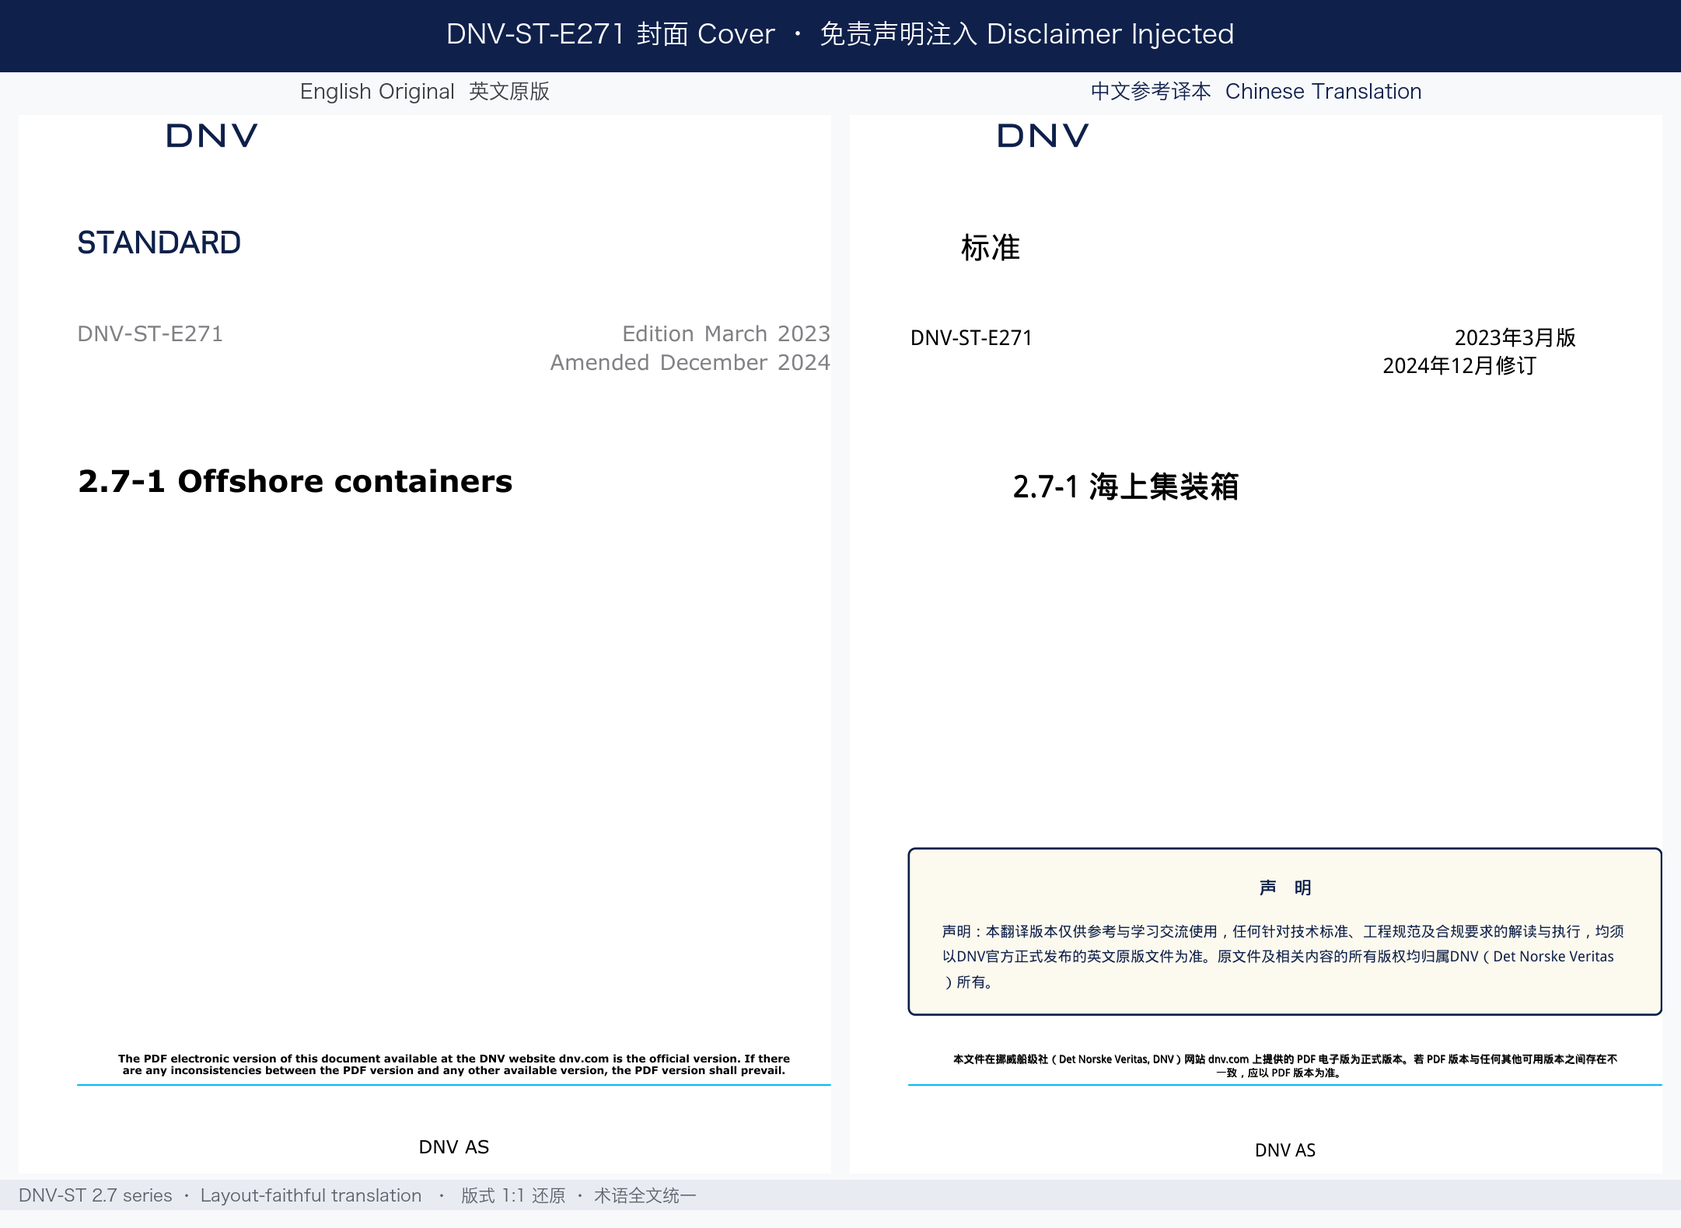
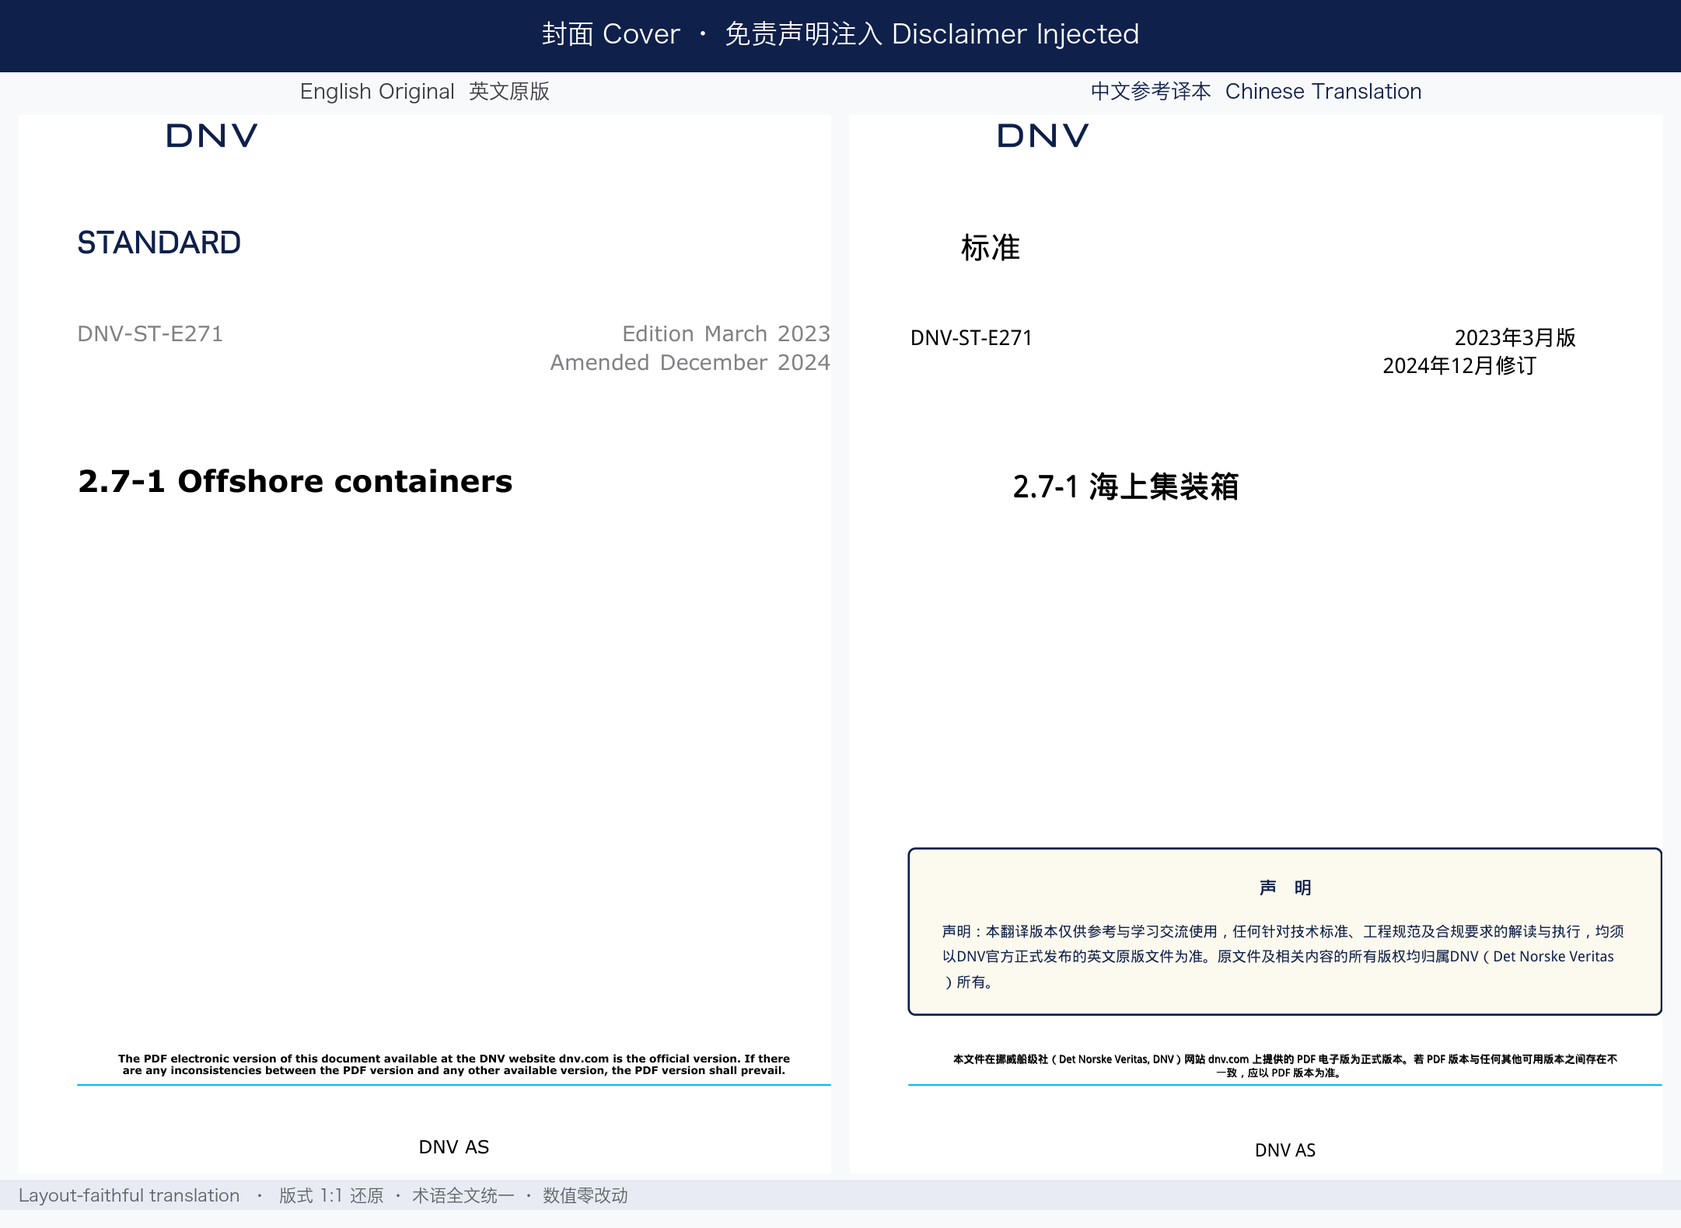
feat: cross-platform, agent-agnostic, de-branded
- Platform: Windows / macOS / Linux (pure Python + PyMuPDF, no OS-specific deps)
- Agents: works with any AI agent — portable SKILL.md (Agent Skills convention)
  or plain prompt + standalone CLI toolkit; visual acceptance via subagent or self-review
- De-branded: generic examples in canonical/chunk_safe data, neutral screenshot captions
- README rewritten (multi-agent install, Windows paths, toolkit quick start)

Changed region(s): [[0.2789, 0.0, 0.7128, 0.031], [0.031, 0.9614, 0.4029, 0.9924]]

diff --git a/scripts/canonical.py b/scripts/canonical.py
@@ -1,5 +1,11 @@
 # -*- coding: utf-8 -*-
-"""重复文本统一规范译文表 + 分块瘦身 + 构建时套用"""
+"""重复文本统一规范译文表 + 分块瘦身 + 构建时套用（通用机制）
+
+SIG2ZH 为"签名→规范译文"数据表：签名 = 将块内所有数字替换为 # 后的文本。
+换一个领域/项目时，按相同格式重写 SIG2ZH / IDENTITY（运行 scripts/canonical.py
+会先扫描重复组并报告未覆盖签名，照提示补表即可）。
+下方数据为工业标准类文档的示例片段，可整体替换。
+"""
 import json, re, os, glob
 from collections import defaultdict, Counter
 
@@ -9,64 +15,18 @@ DOCS = _sys.argv[2:] if len(_sys.argv) > 2 else ["DOC"]
 
 # 签名 -> 规范中文（⟦Ni⟧ 与原文数字串一一对应；纯数字/符号组自动保留原文）
 SIG2ZH = {
-    "#.# General": "⟦N0⟧.⟦N1⟧ 总则",
-    "#.# Materials": "⟦N0⟧.⟦N1⟧ 材料",
-    "#.#.# General": "⟦N0⟧.⟦N1⟧.⟦N2⟧ 总则",
-    "#.#-# Equipment assemblies": "⟦N0⟧.⟦N1⟧-⟦N2⟧ 设备组件",
-    "#.#-# Offshore containers": "⟦N0⟧.⟦N1⟧-⟦N2⟧ 海上集装箱",
-    "#.#-# Portable offshore units": "⟦N0⟧.⟦N1⟧-⟦N2⟧ 便携式海上单元",
-    "(A × CD)/MGWSub < #.#\nAnd\n(MGW + A#)/MGWSub < #.#\n#.# m":
-        "(A × CD)/MGWSub < ⟦N0⟧.⟦N1⟧\n且\n(MGW + A⟦N2⟧)/MGWSub < ⟦N3⟧.⟦N4⟧\n⟦N5⟧.⟦N6⟧ m",
-    "Alloy\nTemper": "合金\n状态",
-    "Changes - current": "变更 — 现行",
-    "Condition\nRequirement": "工况\n要求",
-    "Contents": "目录",
-    "Different/additional\ncriteria (compared\nwith DNV-ST-E#)": "与DNV-ST-E⟦N0⟧\n不同/附加\n的准则",
-    "Document code\nTitle": "文件编号\n标题",
-    "Enhancement factor": "增强系数",
-    "Four leg lifting set at\nTwo leg lifting set at": "四腿吊装组件（夹角）\n两腿吊装组件（夹角）",
-    "Function\nRequirements": "功能\n要求",
-    "General requirements": "一般要求",
-    "Guidance note #:": "指导性说明⟦N0⟧：",
-    "Guidance note:": "指导性说明：",
-    "Level #": "等级⟦N0⟧",
-    "Minimum required working load limit (WLLmin)": "最低要求额定工作载荷（WLLmin）",
-    "NORSOK Z-# clause": "NORSOK Z-⟦N0⟧ 条款",
-    "Note #:": "注⟦N0⟧：",
+    # —— 通用示例（按你的文档领域重写）——
+    "#.# General": "⟦N0⟧.⟦N1⟧ 总则",                       # 章节标题
+    "Document code\nTitle": "文件编号\n标题",                # 表头
+    "Term\nDefinition": "术语\n定义",                        # 表头
+    "Topic\nReference\nDescription": "主题\n参考条款\n说明",  # 修订表表头
     "Note:": "注：",
-    "OFFSHORE CONTAINER DATA PLATE": "海上集装箱数据标牌",
-    "R#-SE\nYes #)\nNo\nNo": "R⟦N0⟧-SE\n是 ⟦N1⟧)\n否\n否",
-    "Rating": "额定值",
-    "Sec.#,": "第⟦N0⟧节，",
-    "Shackle dimension:": "卸扣尺寸：",
-    "Single leg\nsling or\nforerunner": "单腿\n吊索或\n引索",
-    "Standard — DNV-ST-E#. Edition April #, amended May #\nPage #":
-        "标准 — DNV-ST-E⟦N0⟧。⟦N1⟧年4月版，⟦N2⟧年5月修订\n第⟦N3⟧页",
-    "Standard — DNV-ST-E#. Edition August #\nPage #":
-        "标准 — DNV-ST-E⟦N0⟧。⟦N1⟧年8月版\n第⟦N2⟧页",
-    "Standard — DNV-ST-E#. Edition March #, amended December #\nPage #":
-        "标准 — DNV-ST-E⟦N0⟧。⟦N1⟧年3月版，⟦N2⟧年12月修订\n第⟦N3⟧页",
-    "Term\nDefinition": "术语\n定义",
-    "Topic\nReference\nDescription": "主题\n参考条款\n说明",
-    "Visual": "目视",
-    "Welded": "焊接",
-    "Working load limits [tonnes]\nNominal\nsize of\nsling leg":
-        "额定工作载荷 [吨]\n吊索腿\n名义\n尺寸",
-    "Yes": "是",
-    "Yield strength": "屈服强度",
-    "inspection": "检测",
-    "max.": "最大",
-    "min.": "最小",
-    "where:": "式中：",
-    "zone #:": "⟦N0⟧ 区：",
-    "— From Table #-#, find WLLmin = #.# tonnes.\n— From Table #-#, find WLLs.":
-        "— 由表⟦N0⟧-⟦N1⟧查得 WLLmin = ⟦N2⟧.⟦N3⟧ 吨。\n— 由表⟦N4⟧-⟦N5⟧查得 WLLs。",
+    "Guidance note:": "指导性说明：",
+    # 运行本脚本会列出"未覆盖签名"，照提示逐条补全即可
 }
-IDENTITY = {  # 明确保留原文
-    "DNV AS", "(HAZ)", "(Rp#.#)", "EN ISO #", "HAR/H#", "HBR/H#", "TF/T#",
-    "[N/mm#]", "[kg]", "[tonnes]",
-    "# mm < D ≤ # mm\n#\n#\n#", "R#\nD ≥ # mm\nD ≥ # mm\nD ≥ # mm\nD ≥ # mm",
-    "[mm]\n#°\n#°\n#°\n#°\n#°\n#°\n#°\n#°\n#°\n#°",
+# 明确保留原文的签名（标准号/代号/单位/纯数值表）
+IDENTITY = {
+    "EN ISO #", "[kg]", "[mm]", "[tonnes]", "(HAZ)",
 }
 
 def norm_key(t):

diff --git a/scripts/chunk_safe.py b/scripts/chunk_safe.py
@@ -11,7 +11,7 @@ import sys as _sys
 DOCS = _sys.argv[1:-1] if len(_sys.argv) > 2 else ["DOC"]
 MAXCH = 14000      # 目标块大小
 HARDMAX = 21000    # 找不到安全边界时的硬上限
-KEEP_PREFIX = "This copy of the document"
+KEEP_PREFIX = os.environ.get("KEEP_PREFIX", "This copy of the document")  # 水印/内部标记前缀，按文档设置
 
 def norm_key(t):
     return re.sub(r"\d+", "", t.replace("\xa0", " "))[:60]
@@ -42,7 +42,7 @@ def body_blocks(page):
         t = b["text"]
         if t.strip().startswith(KEEP_PREFIX): continue
         if b["size"] <= 7.6: continue                      # 页眉页脚 7pt
-        if re.match(r"^(Standard\s+—|Page\s+\d+|DNV AS|\d+/\d+|Changes|Contents$)", t.strip()): continue
+        if re.match(r"^(Standard\s+—|Page\s+\d+|\d+/\d+|Changes|Contents$)", t.strip()): continue  # 页眉页脚模式按文档调整
         out.append(b)
     return out
 
@@ -97,9 +97,8 @@ def safe_boundaries(data, cont_pages):
     return safe
 
 # 受控缩写清单（术语库）：仅对这些跟踪"全文档首次出现"的分块位置
-KNOWN_ABBREVS = ["WLL","RSL","POU","CCU","CSC","SOLAS","IMO","ISO","NDT","NDE","MPI","UT","PT","VT",
-                 "ITP","WPS","WPQR","CoG","HVAC","ATEX","ESD","UPS","NORSOK","DNV","ASME","ASNT",
-                 "ASTM","IBC","FEA","FEM","GRP","SWL","OSV","MBL","DNVGL","EN","Ex","AOD","COP","MEWP"]
+KNOWN_ABBREVS = os.environ.get("KNOWN_ABBREVS", "WLL,ISO,NDT,ITP,WPS,HVAC").split(",")
+# ⚠ 按你的领域设置受控缩写清单（逗号分隔环境变量，或直接编辑此行）
 
 def scan_abbrevs(items):
     """items: [(chunk_idx, text)] -> {abbrev: chunk_idx首次}（仅受控清单）"""

diff --git a/scripts/engine_tw.py b/scripts/engine_tw.py
@@ -1,4 +1,4 @@
-"""DNV 标准中文版 PDF 版式还原引擎 v2（TextWriter 绘制层）
+"""专业文档 PDF 版式还原引擎 v2（TextWriter 绘制层）
 v2 关键变更：绘制统一走 TextWriter（与 Font.text_length 度量完全一致），
 修复 v1 中 insert_text 渲染宽度 ≈1.39× 预测值导致的系统性越界。
 """

diff --git a/README.md b/README.md
@@ -1,10 +1,10 @@
 # pro-doc-translator · 专业文档翻译师
 
-**Any-industry, any-format professional document translation skill for ZCode** — auto-builds domain glossaries, restores PDF layout 1:1, translates Office files in place, and ships with a four-fold QA + visual-acceptance loop.
+**Any-industry, any-format professional document translation for AI agents** — auto-builds domain glossaries, restores PDF layout 1:1, translates Office files in place, and ships with a four-fold QA + visual-acceptance loop. Works as a portable skill or as a plain prompt + toolkit with **any AI agent**, on **Windows / macOS / Linux**.
 
-**任意行业、任意格式的专业文档翻译技能**：自动构建领域专业词汇表，PDF 1:1 版式还原，Office 原位翻译保格式，内置四重自动 QA 与视觉验收闭环。由 DNV 2.7 系列标准（260 页）全自动中文化项目实战淬炼而来。
+**任意行业、任意格式的专业文档翻译**：自动构建领域专业词汇表，PDF 1:1 版式还原，Office 原位翻译保格式，内置四重自动 QA 与视觉验收闭环。以可移植技能或「提示词 + 工具箱」形式适配**任何 AI agent**，支持 **Windows / macOS / Linux** 全平台。由一个 260 页工业标准全自动翻译项目实战淬炼而来。
 
-![Python](https://img.shields.io/badge/python-3.9%2B-blue) ![Platform](https://img.shields.io/badge/platform-macOS%20%7C%20Linux-lightgrey) ![License](https://img.shields.io/badge/license-MIT-green)
+![Python](https://img.shields.io/badge/python-3.9%2B-blue) ![Platform](https://img.shields.io/badge/platform-Windows%20%7C%20macOS%20%7C%20Linux-lightgrey) ![Agents](https://img.shields.io/badge/agents-any%20AI%20agent-8A2BE2) ![License](https://img.shields.io/badge/license-MIT-green)
 
 ---
 
@@ -17,7 +17,7 @@
 **旋转表头矩阵 Rotated Matrix Headers**
 ![matrix](docs/screenshots/03_matrix_rotated.png)
 
-> 左：英文原版 Left: English original · 右：中文参考译本 Right: Chinese translation（内页右侧红竖排水印已裁切，internal watermark cropped for demo）
+> 左：英文原版 Left: English original · 右：中文参考译本 Right: Chinese translation（样例文档，页内右侧内部水印已裁切 internal watermark cropped for demo）
 
 ---
 
@@ -25,50 +25,49 @@
 
 | | 中文 | English |
 |---|---|---|
-| 📖 | **任意领域词汇表自动构建**：领域判定 → 术语挖掘（词频/缩写/定义句式/表头）→ 权威查证（标准组织/术语审定委员会/官方双语文件）→ 三层定稿（verified / consistent / keep-original） | **Auto domain glossary**: domain detection → term mining (n-gram, acronyms, definition patterns, table headers) → authoritative lookup (standards bodies, official bilingual docs) → 3-tier consolidation |
-| 📐 | **PDF 1:1 版式还原**：TextWriter 度量一致绘制、表格列合并块行×列拆分、行级锚定、旋转表头、目录点线、红色修订保留、封面免责声明 | **PDF 1:1 layout restore**: TextWriter metric-consistent drawing, row×column splitting of column-merged blocks, per-line anchoring, rotated headers, TOC dot leaders, cover disclaimer |
+| 📖 | **任意领域词汇表自动构建**：领域判定 → 术语挖掘（词频/缩写/定义句式/表头）→ 权威查证（标准组织/术语审定机构/官方双语文件，逐条记录来源与置信级）→ 三层定稿（verified / consistent / keep-original） | **Auto domain glossary**: domain detection → term mining (n-gram, acronyms, definition patterns, table headers) → authoritative lookup (standards bodies, terminology councils, official bilingual docs, with sources & confidence) → 3-tier consolidation |
+| 📐 | **PDF 1:1 版式还原**：TextWriter 度量一致绘制、表格列合并块行×列拆分、行级锚定、旋转表头、目录点线、封面免责声明 | **PDF 1:1 layout restore**: TextWriter metric-consistent drawing, row×column splitting of column-merged blocks, per-line anchoring, rotated headers, TOC dot leaders, cover disclaimer |
 | 📁 | **多格式路由**：原生 PDF / 扫描 PDF(OCR) / DOCX / PPTX / XLSX / Markdown / 纯文本，Office 原位翻译保样式 | **Format routing**: native/scanned PDF, Office in-place translation preserving styles |
 | 🔗 | **链式翻译流水线**：文档内块间串行共享实际译文衔接与术语决策日志，文档间并行 | **Chained pipelines**: serial within a document (real-translation handoff + term decision log), parallel across documents |
-| ✅ | **四重自动 QA + 视觉验收**：完整性/术语漂移/残留源语言/表格覆盖率 + 越界/微字/页脚/叠印扫描 + 视觉代理逐页裁决闭环 | **Four-fold QA + visual acceptance**: completeness/terminology drift/source-language residue/table coverage + overflow/tiny-font/footer/overlap scans + per-page visual judge loop |
+| ✅ | **四重自动 QA + 视觉验收**：完整性/术语漂移/残留源语言/表格覆盖率 + 越界/微字/页脚/叠印扫描 + 渲染页面逐页裁决闭环 | **Four-fold QA + visual acceptance**: completeness/terminology drift/source-language residue/table coverage + overflow/tiny-font/footer/overlap scans + rendered-page review loop |
 | 🔁 | **无人值守**：全中间产物落盘、断点续跑、配额中断自动定时恢复 | **Unattended**: everything persisted, resumable, auto-retry timer on quota interruption |
 
 ## 📊 实战战绩 Proven Track Record
 
-DNV 2.7 系列标准中文化：**260 页 / 6,457 文本块 / 5,140 条译文**，术语漂移 0、占位符残留 0、微字 0、书签 533 条全中文化，视觉验收终审全部通过。
+一个 260 页工业标准全自动翻译项目：**6,457 文本块 / 5,140 条译文**，术语漂移 0、占位符残留 0、微字 0、书签 533 条全中文化，视觉验收终审全部通过。
+
+A 260-page industrial-standard project: **6,457 blocks / 5,140 translations**, zero terminology drift, zero placeholder leaks, zero sub-4.5pt text, 533 bookmarks localized, full visual acceptance.
 
 ## 🚀 快速开始 Quick Start
 
-### 作为 ZCode 技能使用 As a ZCode skill
+### 方式一 · 作为可移植技能 Portable skill（支持 Agent Skills 规范的 agent）
+
+遵循开放 `SKILL.md` 规范，适用于 Claude Code、ZCode 及其他支持该规范的 coding agent：
 
 ```bash
-# 克隆到技能目录 Clone into your skills directory
+# macOS / Linux
 git clone https://github.com/lixeon2046/pro-doc-translator.git ~/.agents/skills/pro-doc-translator
-# 重启 ZCode 后，直接说：
-# After restarting ZCode, just say:
-“把 ./report.pdf 翻译成中文”          → 自动触发技能
-“Translate ./manual.docx to English” → auto-triggers
+# Windows (PowerShell)
+git clone https://github.com/lixeon2046/pro-doc-translator.git "$env:USERPROFILE\.agents\skills\pro-doc-translator"
 ```
 
-或使用通用任务启动提示词模板：[`assets/task-prompt-template.md`](assets/task-prompt-template.md)
+各 agent 的技能目录不同（如 Claude Code 为 `~/.claude/skills/`）——把克隆目录放到你的 agent 对应位置即可。重启后直接说：
 
-### 依赖 Dependencies
+> “把 ./report.pdf 翻译成中文” / “Translate ./manual.docx to English”
 
+### 方式二 · 任何 AI agent + 工具箱 Any agent + toolkit
+
+不需要技能机制也能用：把 [`assets/task-prompt-template.md`](assets/task-prompt-template.md)（通用启动提示词）发给任意能读写文件、执行 Python 的 AI agent（Claude / GPT / GLM / Cursor / …），并让它使用 [`scripts/`](scripts/) 下的独立命令行工具。所有脚本仅依赖 `PyMuPDF`，全平台可运行：
+
+```bash
+pip install pymupdf
+python scripts/extract_pdf.py ./report.pdf --workdir .work   # 1) 结构化提取
+python scripts/chunk_safe.py report --workdir .work          # 2) 表感知安全分块
+python scripts/engine_tw.py                                  # 3) TextWriter 版式回填（库调用）
+python scripts/qa_scan.py ./report_zh.pdf --cjk-only         # 4) 成品扫描
 ```
-PyMuPDF (fitz) >= 1.24    # PDF 提取与版式回填 extraction & layout
-Pillow                    # 截图与质检图像（可选 optional）
-# Office 路线 Office route: python-docx / python-pptx / openpyxl
-```
 
-### 脚本速查 Scripts
-
-| 脚本 | 用途 Purpose |
-|---|---|
-| `scripts/extract_pdf.py` | 结构化提取（行级几何/旋转/跨页表格检测）Structured extraction |
-| `scripts/chunk_safe.py` | 表感知安全分块 Table-aware safe chunking |
-| `scripts/canonical.py` | 高频重复文本规范译文表 Canonical recurring translations |
-| `scripts/patch_columns.py` | 列合并块拆分 Column-merged block splitting |
-| `scripts/engine_tw.py` | TextWriter 版式回填引擎 Layout restoration engine |
-| `scripts/validate_trans.py` / `qa_scan.py` / `tables_coverage.py` | QA 套件 QA suite |
+完整工作流与各阶段规则见 [`SKILL.md`](SKILL.md) 与 [`references/`](references/)。
 
 ## 🏗 工作流 Workflow
 
@@ -77,13 +76,22 @@ Pillow                    # 截图与质检图像（可选 optional）
 → 校验 Validate → 版式回填 Layout restore → 成品QA Output QA → 视觉验收 Visual loop → 交付 Deliver
 ```
 
-详细方法论文档：[`references/`](references/)（词汇表构建协议 / PDF 引擎规范 / Office 路线 / QA 协议）
+| 脚本 Script | 用途 Purpose |
+|---|---|
+| `scripts/extract_pdf.py` | 结构化提取（行级几何/旋转/跨页表格检测）Structured extraction |
+| `scripts/chunk_safe.py` | 表感知安全分块 Table-aware safe chunking |
+| `scripts/canonical.py` | 高频重复文本规范译文表 Canonical recurring translations |
+| `scripts/patch_columns.py` | 列合并块拆分 Column-merged block splitting |
+| `scripts/engine_tw.py` | TextWriter 版式回填引擎 Layout restoration engine |
+| `scripts/validate_trans.py` / `qa_scan.py` / `tables_coverage.py` | QA 套件 QA suite |
+
+方法论文档：[`references/`](references/)（词汇表构建协议 / PDF 引擎规范 / Office 路线 / QA 协议）
 
 ## ⚠ 免责声明 Disclaimer
 
-本工具用于翻译你拥有合法使用权的文档。标准原文的版权归属原发布机构（如 DNV、ISO）；译文仅供参考，任何技术要求的解读与执行均须以官方原版文件为准。本仓库不包含任何受版权保护的文档内容。
+本工具用于翻译你拥有合法使用权的文档。原文档的版权归属其发布机构；译文仅供参考，任何技术要求的解读与执行均须以官方原版文件为准。本仓库不包含任何受版权保护的文档内容。
 
-Use this tool only on documents you are legally entitled to translate. Copyright of source standards remains with their publishers. Translations are for reference only. This repository contains no copyrighted document content.
+Use this tool only on documents you are legally entitled to translate. Copyright of source documents remains with their publishers. Translations are for reference only. This repository contains no copyrighted document content.
 
 ## 📄 许可证 License
 

diff --git a/SKILL.md b/SKILL.md
@@ -68,6 +68,10 @@ description: 专业文档翻译师：把任意行业、任意格式（PDF/DOCX/P
 
 交付清单 + 质量指标报告（覆盖/扫描/验收/修复记录）+ 免责声明确认（除非用户豁免，封面注入"参考译本"声明）。通用启动提示词模板见 `assets/task-prompt-template.md`。
 
+## 可移植性 Portability
+
+本技能遵循开放 `SKILL.md` 规范，可被任何支持该规范的 AI agent 直接加载；不支持技能机制的 agent，把 `assets/task-prompt-template.md` 作为系统提示、`scripts/` 作为独立 CLI 工具箱即可等价执行。脚本仅依赖 Python 3.9+ 与 PyMuPDF，Windows / macOS / Linux 全平台可用（Office 路线的渲染质检需 LibreOffice 或等效转换器）。
+
 ## 硬性纪律
 
 - 全程无人值守，禁中间确认；异常自动回退并记录到构建摘要

diff --git a/references/qa-protocol.md b/references/qa-protocol.md
@@ -35,7 +35,7 @@
 ## 三、视觉验收闭环
 
 1. 渲染抽样 10–12 页/份：封面（免责声明）、目录、修订表、正文、大表、公式页、矩阵/旋转表头、附录算例、历史修订表、此前失败页
-2. 派视觉验收代理（pdf:visual-judge）逐页裁决，判定标准：
+2. 视觉裁决：渲染样张交由子代理或由主控自行逐页审阅，判定标准：
    - 无乱码/叠印/裁切丢字；文字在栏框内、竖线不穿字
    - 表格行对齐 ±数像素可接受；字号 ≥4.5pt 可辨
    - 数值/公式与英文原版逐格一致

diff --git a/references/glossary-construction.md b/references/glossary-construction.md
@@ -24,7 +24,7 @@
 ## 3. 权威查证（WebSearch）
 
 按优先级检索官方译法：
-1. 标准组织官方双语文件（ISO/IEC/IEEE/EN/DNV/ABS/GB/行标……的中文版或术语页）
+1. 标准组织/行业机构官方双语文件（ISO/IEC/IEEE/EN/GB/行标/行业权威团体……的中文版或术语页）
 2. 全国科学技术名词审定委员会（term.org.cn）审定名词
 3. 该领域头部企业的官方中文文档/手册
 4. 权威百科与学术数据库的通用译法（多来源交叉验证）
